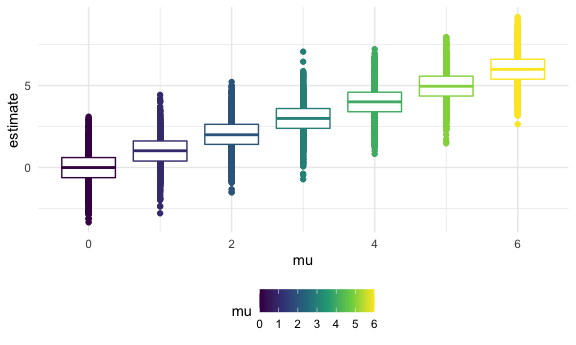
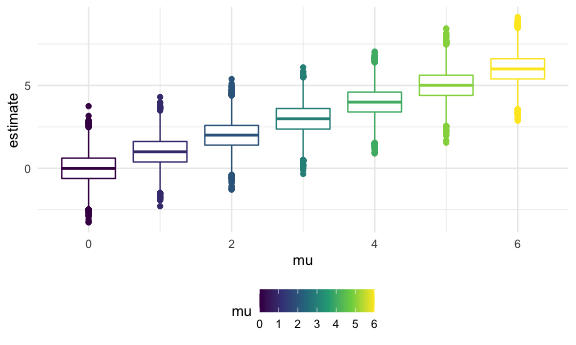
check homework, organized code, checked my written interpretations

diff --git a/p8105_hw_jyc2171.md b/p8105_hw_jyc2171.md
@@ -239,75 +239,9 @@ homicide_df =
     ##   disposition = col_character()
     ## )
 
-## Problem 2 ideas …
-
-import one dataset
+## Problem 2
 
 ``` r
-data_1 = read_csv("lda_data/con_01.csv")
-```
-
-    ## Parsed with column specification:
-    ## cols(
-    ##   week_1 = col_double(),
-    ##   week_2 = col_double(),
-    ##   week_3 = col_double(),
-    ##   week_4 = col_double(),
-    ##   week_5 = col_double(),
-    ##   week_6 = col_double(),
-    ##   week_7 = col_double(),
-    ##   week_8 = col_double()
-    ## )
-
-but the challenge is how to do it across the 10 subjects in the
-experimental group and 10 subjects in control group?
-
-start with a dataframe with the names of all of your names
-
-``` r
-#Live session lecture notes - please ignore
-## if you can do this, then you would solve this part of the homework assignment
-## then after this, you can do some mutate stuff
-## probably need to pivot to made the dataset tidy
-## could I get the actual dataframe I wanted to have to do some analysis or some plots
-## this is a data organizational problem and data tidying problem
-## in the end, everything will be in one dataframe
-##list.files()
-##list.files("lda_data")
-
-#First, my function to read in all 20 .csv files
-
-########################
-# read_all_csvs = function(x) {
-#   
-#   data = read_csv(x)
-#  
-#   tibble(
-#     data = data
-#   )
-#   
-# }
-# 
-# path_df =
-#   tibble(
-#     files = list.files("lda_data"),
-#     path = str_c("lda_data/", files)
-#   ) %>% 
-#   mutate(
-#     data = map(path, read_all_csvs, col_types = "dddddddd")
-#   ) %>% 
-#   unnest()
-#   
-# path_df =
-# path_df %>% 
-#   mutate(
-#     data = map(path, read_all_csvs, col_types = "dddddddd")
-#   ) %>% 
-#   unnest()
-#################################
-
-
-#####
 study_data = 
   tibble(
     files = list.files("lda_data"),
@@ -332,50 +266,6 @@ study_data =
     ## Please use `cols = c(data)`
 
 ``` r
-######
-
-# #Next, my for loop
-# output = vector("list", length = 20)
-# 
-# for (i in 1:20) {
-#   
-#   output[[i]] = read_all_csvs(path_df$path[[i]])
-# 
-# }
-# 
-# study_data =
-#   path_df %>% 
-#   separate(path, into = c("prefix", "arm_id"), sep = 9) %>% 
-#   select(-prefix) %>% 
-#   separate(arm_id, into = c("arm_id", "csv"), sep = 6) %>%
-#   select(-csv) %>%
-#   unnest(data) %>%
-#   mutate(
-#     week_1 = data$week_1,
-#     week_2 = data$week_2,
-#     week_3 = data$week_3,
-#     week_4 = data$week_4,
-#     week_5 = data$week_5,
-#     week_6 = data$week_6,
-#     week_7 = data$week_7,
-#     week_8 = data$week_8,
-#   ) %>%   
-#   select(arm_id, week_1:week_8) %>% 
-#   pivot_longer(
-#     data$week_1:data$week_8,
-#     names_to = "week",
-#     values_to = "repeated_measure"
-#   )
-#   
-#   
-#   
-#   
-# #read_csv(path_df$path[[1]])
-# #read_csv(path_df$path[[2]])
-# 
-```
-
-``` r
 #Spaghetti plot
 study_data %>% 
   ggplot(aes(x = week, y = repeated_measure)) +
@@ -388,8 +278,9 @@ study_data %>%
 The spaghetti plot shows that in general, subjects in the experimental
 arm (denoted by warm colors) generally have higher values of the
 repeated measure compared to subjects in the control arm. In addition,
-the values of the repeated measure trends upwards over time (that is,
-the value of the repeated measure increased weekly).
+the values of the repeated measure trends upwards over time in the
+experimental arm (that is, the value of the repeated measure increases
+weekly), more so than in the control arm.
 
 # Problem 3
 
@@ -409,29 +300,8 @@ t_test = function(samp_size = 30, mu = 0, sigma = 5) {
   
 }
 
-#########
-# sim_t_test = function(n_samp = 30, mu = 2, sigma = 5) {
-# 
-#    sim_data = tibble(
-#      x = rnorm(n_samp, mean = mu, sd = sigma)
-#    )
-# 
-#    test = t.test(x ~ 1, data = sim_data)
-# 
-#    broom::tidy(test)
-# 
-#  }
-# 
-#  sim_results =
-#    tibble(mu = 0:6) %>%
-#    mutate(
-#      output_lists = map(.x = mu, ~rerun(100, sim_t_test(mu = .x))),
-#      estimate_dfs = map(output_lists, bind_rows)
-#    ) %>%
-#    select(-output_lists)
-
 ####
-##for loop approach
+##for loop approach?
 # plot_data = c()
 # for (i in 0:6) {
 #   plot_data[[i+1]] =
@@ -446,13 +316,11 @@ t_test = function(samp_size = 30, mu = 0, sigma = 5) {
 #     mutate(t_accept_h0 = p.value > 0.05)
 # }
 # plot_data = plot_data %>% bind_rows()
-###
+####
 ```
 
 ``` r
 #first doing 100 simulations, will expand to 5000 later after I get the code correct
-
-
 
 sim_results = 
   tibble(mu = 0:6) %>% 
@@ -548,7 +416,6 @@ prop_sig %>%
 #Plot of estimates on y axis and true value of mu on x axis
 sim_results %>% 
   ggplot(aes(x = mu, y = estimate, group = mu, color = mu)) +
-  geom_point(alpha = 0.4) +
   geom_boxplot()
 ```
 
@@ -561,47 +428,24 @@ significance_df %>%
     stat_sig == "significant"
   ) %>% 
   ggplot(aes(x = mu,  y = estimate, group = mu, color = mu)) +
-  geom_point(alpha = 0.2) +
   geom_boxplot()
 ```
 
 <img src="p8105_hw_jyc2171_files/figure-gfm/unnamed-chunk-14-3.png" width="90%" />
 
-``` r
-# first, I will only do the simulation with a small number of cycles, 5.  I will increase to 5000 later, after I have figured out the code
-# sim_power_0 = 
-#   rerun(5, sim_power(mu = 0)) %>% 
-#   bind_rows() %>% 
-#   select(estimate, p.value)
-# 
-# sim_power_1 =
-#   rerun(5, sim_power(mu = 1)) %>% 
-#   bind_rows() %>% 
-#   select(estimate, p.value)
-# 
-# sim_power_2 =
-#   rerun(5, sim_power(mu = 2)) %>% 
-#   bind_rows() %>% 
-#   select(estimate, p.value)
-# 
-# sim_power_3 =
-#   rerun(5, sim_power(mu = 3)) %>% 
-#   bind_rows() %>% 
-#   select(estimate, p.value)
-# 
-# sim_power_4 =
-#   rerun(5, sim_power(mu = 4)) %>% 
-#   bind_rows() %>% 
-#   select(estimate, p.value)
-# 
-# sim_power_5 =
-#   rerun(5, sim_power(mu = 5)) %>% 
-#   bind_rows() %>% 
-#   select(estimate, p.value)
-# 
-# sim_power_6 =
-#   rerun(5, sim_power(mu = 6)) %>% 
-#   bind_rows() %>% 
-#   select(estimate, p.value)
-# 
-```
+As mu (or the effect size) increases, the proportion of statistically
+significant p values \< 0.05, and by convention, the proportion of times
+the null hypothesis is rejected (the power of the test) increases,
+approaching near 100% at a mu of 4.
+
+When including all values of estimated mu’s (aka mu “hat”) without
+accounting for statistical significance, estimates of mu from a sample
+of 5000 are approximately equal to the true value of mu.
+
+When including only values of estimated mu’s (mu “hats”) that are
+statistically significant (p value \< 0.05), estimates of mu from a
+sample of 5000 are higher than the true value of mu, but only for true
+mu values of 1, 2, and 3. This difference seems to disappear at mu’s of
+\>4, because at those effect sizes, the majority of p values are
+statistically significant. For an effect size of zero (mu = 0), the
+average estimated mu is less than the true mu
